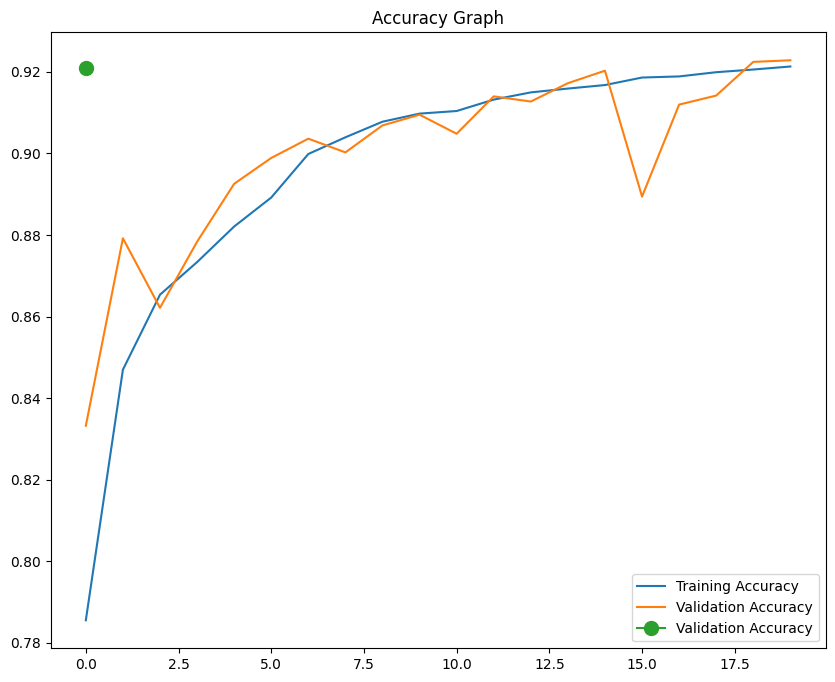
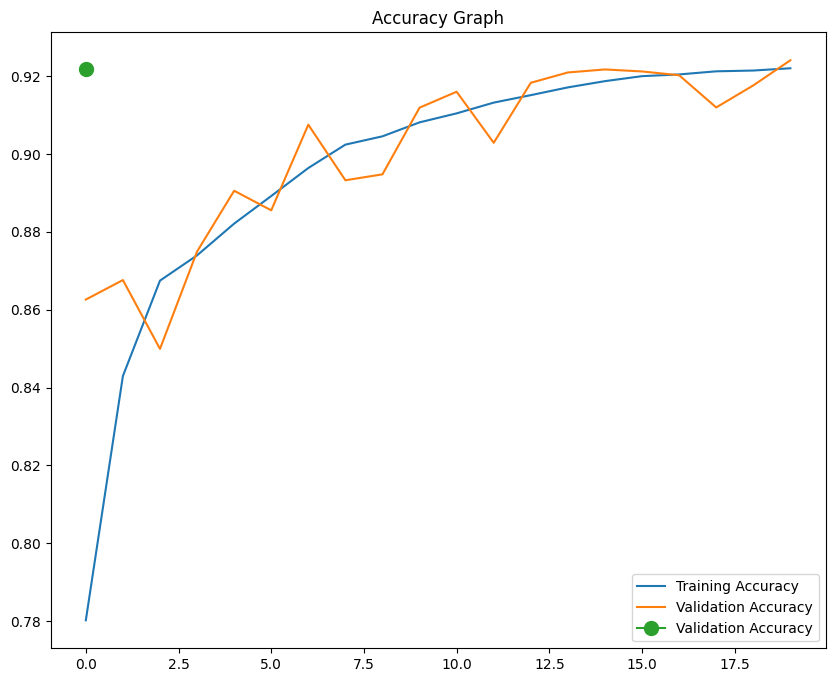
menambahkan studi kasus nyata pada domain, memperbaiki problem dan goals

diff --git a/README.md b/README.md
@@ -4,25 +4,31 @@
 
 _Customer churn_ merujuk pada fenomena di mana pelanggan menghentikan hubungan atau langganan mereka dengan perusahaan atau penyedia layanan. Tingkat _churn_ pelanggan berdampak langsung pada pendapatan, pertumbuhan, dan retensi pelanggan perusahaan. Oleh karena itu, memahami dan mengurangi _churn_ pelanggan adalah prioritas utama bagi banyak bisnis
 
-Misalnya, dalam industri telekomunikasi, pelanggan mungkin memilih untuk berhenti berlangganan jika mereka merasa tidak puas dengan kualitas layanan, menemukan penawaran yang lebih baik dari pesaing, atau merasa bahwa biaya langganan mereka tidak sebanding dengan nilai yang mereka terima. Dalam kasus seperti ini, perusahaan dapat kehilangan pendapatan signifikan dan mungkin harus mengeluarkan biaya tambahan untuk memperoleh pelanggan baru.
+Sebagai contoh kasus PT Indonusa Telemedia atau dikenal dengan namaTelkomvision (selanjutnya disebut Transvision)mempunyai bisnis utamanya adalah TV berlangganan.Menurunnya pendapatan per pelanggan TV berlanggananatau average revenue per user (ARPU) menjadi penyebab perusahaan ini mengalami kerugian. Banyaknya pelanggan yang menunggakmembayar tagihan kemudian putus berlangganan ( churn )menyebabkan tingkat churn tinggi. Tingkat churn pelanggan yang tinggi harus diprediksi secara akurat,karena hasil prediksi yang akurat dapat menentukanstrategi apa dan promosi bagaimana yang tepat untukretensi pelanggan [^1^].
 
-Dengan melakukan analisis prediksi _churn_, perusahaan dapat mengidentifikasi pelanggan yang berisiko _churn_ dan mengambil tindakan proaktif untuk mempertahankan mereka. Misalnya, mereka mungkin menawarkan diskon atau peningkatan layanan untuk meningkatkan kepuasan pelanggan dan mencegah mereka berhenti berlangganan. Oleh karena itu, analisis prediksi _churn_ adalah alat yang sangat berharga untuk mempertahankan pelanggan dan meningkatkan kinerja bisnis [^1^].
+Dengan melakukan analisis prediksi _churn_, perusahaan dapat mengidentifikasi pelanggan yang berisiko _churn_ dan mengambil tindakan proaktif untuk mempertahankan mereka. Misalnya, mereka mungkin menawarkan diskon atau peningkatan layanan untuk meningkatkan kepuasan pelanggan dan mencegah mereka berhenti berlangganan. Oleh karena itu, analisis prediksi _churn_ adalah alat yang sangat berharga untuk mempertahankan pelanggan dan meningkatkan kinerja bisnis [^2^].
 
 ## Business Understanding
 
+Tingginya tingkat churn pelanggan dapat memiliki dampak signifikan terhadap pendapatan dan pertumbuhan perusahaan, dan berikut adalah beberapa alasan mengapa:
+
+- Pendapatan yang Hilang: Pelanggan yang churn berarti pendapatan yang hilang. Setiap pelanggan yang pergi adalah pendapatan berulang yang tidak akan pernah diterima oleh perusahaan. Jika tingkat churn tinggi, ini bisa berarti kehilangan pendapatan yang signifikan.
+- Biaya Akuisisi Pelanggan (CAC): Biaya untuk mendapatkan pelanggan baru seringkali jauh lebih tinggi daripada biaya untuk mempertahankan pelanggan yang ada. Jadi, ketika pelanggan churn, perusahaan harus menghabiskan lebih banyak uang untuk menggantikan mereka dengan pelanggan baru.
+- Reputasi dan Referensi: Pelanggan yang churn mungkin meninggalkan ulasan negatif atau berbicara buruk tentang perusahaan kepada orang lain, yang dapat merusak reputasi perusahaan dan membuat lebih sulit untuk mendapatkan pelanggan baru.
+
+Dari alasan-alasan di atas, dapat ditarik _problem statements_ dan _goals_ sebagai berikut:
+
 ### Problem Statements
 
-- Perusahaan mengalami tingkat _churn_ pelanggan yang tinggi, yang berdampak negatif pada pendapatan dan pertumbuhan mereka.
-- Perusahaan saat ini tidak memiliki cara untuk mengidentifikasi pelanggan yang berisiko _churn_.
-- Tanpa kemampuan untuk memprediksi _churn_, perusahaan tidak dapat mengambil tindakan proaktif untuk mempertahankan pelanggan.
+1. Bagaimana perusahaan dapat mengurangi tingkat _churn_ pelanggan yang tinggi yang berdampak negatif pada pendapatan dan pertumbuhan mereka?
+2. Apakah perusahaan memiliki cara untuk mengidentifikasi fitur-fitur yang paling berkontribusi terhadap _churn_ pelanggan?
+3. Bagaimana perusahaan dapat mengidentifikasi pelanggan yang berisiko _churn_ dan mengambil tindakan proaktif untuk mempertahankan mereka?
 
 ### Goals
 
-- Membangun model prediktif yang dapat memprediksi _churn_ pelanggan dengan akurasi di atas 85%.
-- Mengidentifikasi fitur-fitur yang paling berkontribusi terhadap _churn_ pelanggan.
-- Menggunakan model untuk mengidentifikasi pelanggan yang berisiko _churn_.
-- Mengambil tindakan proaktif berdasarkan prediksi model untuk mempertahankan pelanggan dan mengurangi _churn_.
-- Meningkatkan retensi pelanggan dan, pada akhirnya, pendapatan dan pertumbuhan perusahaan.
+1. Membangun model prediktif yang dapat memprediksi _churn_ pelanggan dengan akurasi di atas 85% untuk membantu mengurangi tingkat _churn_.
+2. Mengidentifikasi fitur-fitur yang paling berkontribusi terhadap _churn_ pelanggan sehingga perusahaan dapat lebih memahami faktor-faktor yang berkontribusi terhadap _churn_.
+3. Menggunakan model untuk mengidentifikasi pelanggan yang berisiko _churn_ dan mengambil tindakan proaktif berdasarkan prediksi model untuk mempertahankan pelanggan dan mengurangi _churn_.
 
 ## Data Understanding
 
@@ -308,7 +314,7 @@ Dari Gambar 3 dapat diamati bahwa:
 - Variabel `Age`, `Payment Delay`, `Last Interaction`,dan `Total Spend` memiliki korelasi rendah dengan label _churn_.
 - Sedangkan variabel `Tenure` dan `Usage Frequency` memiliki korelasi mendekati nol dengan label _churn_.
 
-Dari hasil analisis _multivariate_ di atas, didapatkan informasi bahwa variabel `Support Calls` merupakan variabel yang paling berkontribusi terhadap label _churn_. Sedangkan variabel `Age`, `Payment Delay`, `Last Interaction`, dan `Total Spend` memiliki kontribusi yang rendah terhadap label _churn_. Sedangkan variabel `Tenure` dan `Usage Frequency` hampir tidak memiliki kontribusi terhadap label _churn_. Oleh karena itu, `Tenure` dan `Usage Frequency` tidak akan digunakan dalam proses pemodelan.
+Dari hasil analisis _multivariate_ di atas, didapatkan informasi bahwa variabel `Support Calls` merupakan variabel yang paling berkontribusi terhadap label _churn_. Sedangkan variabel `Age`, `Payment Delay`, `Last Interaction`, dan `Total Spend` memiliki kontribusi yang rendah terhadap label _churn_. Sedangkan variabel `Tenure` dan `Usage Frequency` hampir tidak memiliki kontribusi terhadap label _churn_
 
 ## Data Preparation
 
@@ -316,11 +322,11 @@ Pada tahap ini, perlu dilakukan beberapa proses untuk mempersiapkan data sebelum
 
 ### Menghapus Kolom yang Tidak Diperlukan
 
-Pada tahap ini, kolom `CustomerID` dihapus karena tidak diperlukan dalam proses pemodelan.
+Pada tahap ini, kolom `CustomerID` dihapus karena tidak diperlukan dalam proses pemodelan. Kolom ini hanya berisi ID unik untuk setiap pelanggan dan tidak memiliki kontribusi terhadap label _churn_.
 
 ### Encoding Variabel Kategorikal
 
-Pada fitur `Gender` _female_ diubah menjadi 0 dan _male_ diubah menjadi 1, sedangkan pada fitur `Subscription Type` dan `Contract Length` dilakukan _one-hot encoding_.
+Pada tahap ini, variabel kategorikal `Gender`, `Subscription Type`, dan `Contract Length` diubah menjadi bentuk numerik. Hal ini dilakukan karena model _machine learning_ hanya dapat memproses data numerik. Sehingga, perlu dilakukan _encoding_ pada variabel kategorikal tersebut. Pada fitur `Gender` _female_ diubah menjadi 0 dan _male_ diubah menjadi 1, sedangkan pada fitur `Subscription Type` dan `Contract Length` dilakukan _one-hot encoding_.
 
 ### Splitting Data
 
@@ -333,7 +339,7 @@ Pada proyek ini, akan digunakan model _machine learning_ tensorflow dengan arsit
 - Kemampuan untuk menangkap pola yang kompleks: _Deep learning_ mampu mempelajari pola yang sangat kompleks dalam data. Ini berarti bahwa jika ada hubungan non-_linear_ atau interaksi antara fitur dalam _dataset_, model _deep learning_ mungkin mampu menangkapnya.
 - Kemampuan untuk menangani data berdimensi tinggi: Karena pada kasus ini memiliki sekitar 14 fitur sehingga model _deep learning_ dapat mengelola kompleksitas ini.
 - Pemilihan fitur otomatis: _Deep learning_ dapat mempelajari fitur-fitur penting secara otomatis selama proses pelatihan karena pada kasus ini banyak fitur yang tidak memiliki korelasi yang tinggi dengan label _churn_.
-- Performa: Dalam banyak kasus, _deep learning_ telah menunjukkan performa yang sangat baik dalam berbagai tugas prediksi, sering kali melebihi model lain seperti _regresi logistik_ atau _random forest_ [^2^].
+- Performa: Dalam banyak kasus, _deep learning_ telah menunjukkan performa yang sangat baik dalam berbagai tugas prediksi, sering kali melebihi model lain seperti _regresi logistik_ atau _random forest_ [^3^].
 
 Pada proses pelatihan model akan dilakukan _hyperparameter tuning_ dengan _Graduate Student Descent_ (GSD). Hal ini karena GSD merupakan metode yang paling umum digunakan untuk melakukan _hyperparameter tuning_ pada _deep learning_. Berikut merupakan _hyperparameter_ yang akan di _tuning_:
 
@@ -357,7 +363,7 @@ Gambar 4. Diagram Plot Evaluasi Model _Customer Churn_
 
 Dari Gambar 4, dapat diamati bahwa:
 
-- Model memiliki akurasi sekitar 0.92 pada data _training_, 0.92 pada data _testing_, dan 0.91 pada data _validation_.
+- Model memiliki akurasi sekitar 0.92 pada data _training_, 0.92 pada data _testing_, dan 0.92 pada data _validation_.
 - Model memiliki akurasi yang konsisten pada data _training_, data _testing_, dan data _validation_ sehingga model dapat dikatakan _goodfit_. Hal ini menunjukkan bahwa model tidak _overfitting_ atau _underfitting_. _Overfitting_ sendiri terjadi ketika model memiliki perbedaan _accuracy_ yang besar antara data _training_ dan data _testing_ atau antara data _testing_ dan data _validation_. Sedangkan _underfitting_ terjadi ketika model memiliki _accuracy_ yang rendah pada data _training_, data _testing_, dan data _validation_.
 - Model memiliki performa yang sangat baik dalam memprediksi _churn_ pelanggan dengan akurasi di atas 85%.
 - Dengan menggunakan model ini, perusahaan dapat mengidentifikasi pelanggan yang berisiko _churn_ dan mengambil tindakan proaktif untuk mempertahankan mereka. Misalnya, mereka mungkin menawarkan diskon, peningkatan layanan, atau komunikasi pribadi untuk meningkatkan kepuasan dan loyalitas pelanggan.
@@ -365,5 +371,6 @@ Dari Gambar 4, dapat diamati bahwa:
 
 ## References
 
-[^1^]: [Ahmadi, T., Wulandari, A., & Suhatman, H. Sistem Customer Churn Prediction Menggunakan Machine Learning pada Perusahaan ISP.](https://repository.pnj.ac.id/id/eprint/14345/3/JURNAL.pdf)
-[^2^]: [Sofia, R. N., & Supriyadi, D. (2021). Komparasi Metode Machine Learning dan Deep Learning untuk Deteksi Emosi pada Text di Sosial Media. JUPITER (Jurnal Penelitian Ilmu dan Teknik Komputer), 13(2), 130-139.](https://jurnal.polsri.ac.id/index.php/jupiter/article/view/3603/1677)
+[^1^]: [Suryana, Nana, PREDIKSI CHURN DAN SEGMENTASI PELANGGAN TV BERLANGGANAN (STUDI KASUS TRANSVISIONJAWA BARAT)](https://www.academia.edu/33269763/PREDIKSI_CHURN_DAN_SEGMENTASI_PELANGGAN_TV_BERLANGGANAN_STUDI_KASUS_TRANSVISION_JAWA_BARAT)
+[^2^]: [Ahmadi, T., Wulandari, A., & Suhatman, H. Sistem Customer Churn Prediction Menggunakan Machine Learning pada Perusahaan ISP.](https://repository.pnj.ac.id/id/eprint/14345/3/JURNAL.pdf)
+[^3^]: [Sofia, R. N., & Supriyadi, D. (2021). Komparasi Metode Machine Learning dan Deep Learning untuk Deteksi Emosi pada Text di Sosial Media. JUPITER (Jurnal Penelitian Ilmu dan Teknik Komputer), 13(2), 130-139.](https://jurnal.polsri.ac.id/index.php/jupiter/article/view/3603/1677)
